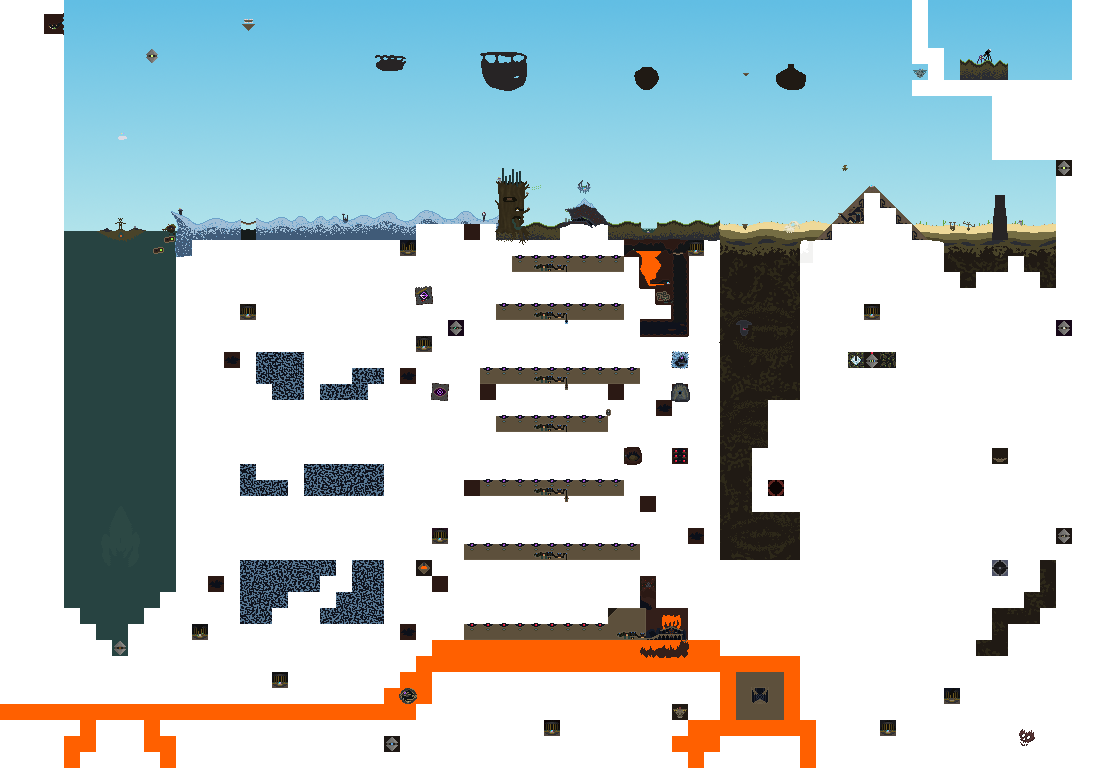
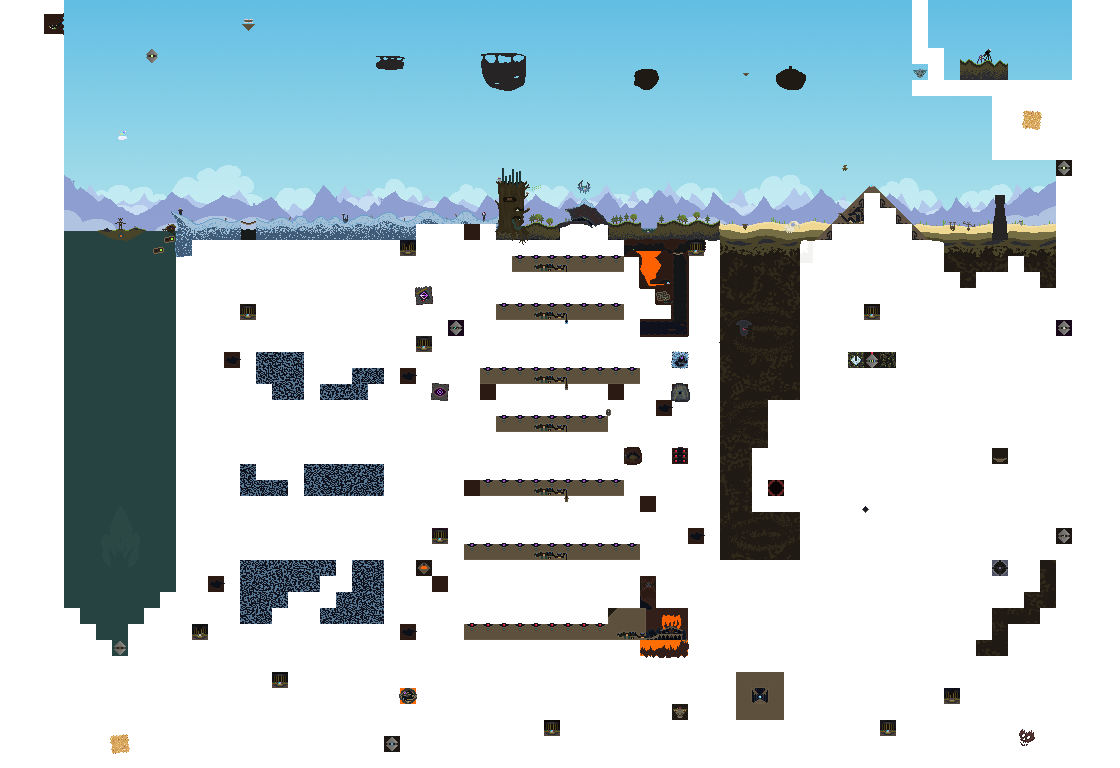
Update custom art
Thanks Crabmaster

diff --git a/js/app.js b/js/app.js
@@ -32,6 +32,10 @@ export const app = {
 
 	overlay: null, 
 	surfaceOverlay: null,
+	surfaceOverlayPW: null,
+	surfaceOverlayNGP: null,
+	surfaceOverlayNGPPW: null,
+
 	ctxo: null, 
 	// Background maps, recolored by biome
 	recolorOffscreen: null,
@@ -193,9 +197,12 @@ export const app = {
 		document.getElementById('debug-custom-art').onchange = async () => {
 			if (!document.getElementById('debug-custom-art').checked) {
 				this.surfaceOverlay = null;
+				this.surfaceOverlayPW = null;
+				this.surfaceOverlayNGP = null;
+				this.surfaceOverlayNGPPW = null;
 			}
 			else {
-				this.surfaceOverlay = await this.getSurfaceOverlay();
+				await this.getSurfaceOverlays();
 			}
 			this.draw();
 		}
@@ -721,7 +728,7 @@ export const app = {
 		console.log("Finished loading pixel scene data.");
 
 		if (document.getElementById('debug-custom-art').checked) {
-			this.surfaceOverlay = await this.getSurfaceOverlay();
+			await this.getSurfaceOverlays();
 		}
 		this.setLoading(false);
 	},
@@ -1011,16 +1018,15 @@ export const app = {
 			this.recolorOffscreenHellBuffer[i*3+2] = recolor & 0xFF;
 		}
 		ctxHell.putImageData(hellData, 0, 0);
-
-		// Disabled for now, waiting for a redraw
-		//this.getSurfaceOverlay();
 	},
 
-	async getSurfaceOverlay() {
+	async getSurfaceOverlays() {
 		// TODO: Add variants for PWs/NG+
-		const url = './data/biome_maps/surface_overlay.png';
 		// Going to use this mode when I don't need to modify the image data
-		this.surfaceOverlay = await loadPNGBitmap(url);
+		this.surfaceOverlay = await loadPNGBitmap('./data/biome_maps/surface_overlay.png');
+		//this.surfaceOverlayPW = await loadPNGBitmap('./data/biome_maps/surface_overlay_pw.png');
+		//this.surfaceOverlayNGP = await loadPNGBitmap('./data/biome_maps/surface_overlay_ngp.png');
+		//this.surfaceOverlayNGPPW = await loadPNGBitmap('./data/biome_maps/surface_overlay_ngp_pw.png');
         return this.surfaceOverlay;
 	},
 
@@ -1060,10 +1066,31 @@ export const app = {
 		}
 
 		// Render debug surface overlay 
-		if (this.surfaceOverlay) { 
-			if (this.pwVertical === 0 && this.ngPlusCount === 0) {
+		if (this.pwVertical === 0) {
+			if (this.ngPlusCount === 0) {
 				// TODO: Need the PW/NG+ versions of the overlay, for now disable
-				this.ctx.drawImage(this.surfaceOverlay, 0, 0, this.w * 512, this.h * 512);
+				if (this.pw === 0) {
+					if (this.surfaceOverlay) {
+						this.ctx.drawImage(this.surfaceOverlay, 0, 0, this.w * 512, this.h * 512);
+					}
+				}
+				else {
+					if (this.surfaceOverlayPW) {
+						this.ctx.drawImage(this.surfaceOverlayPW, 0, 0, this.w * 512, this.h * 512);
+					}
+				}
+			}
+			else {
+				if (this.pw === 0) {
+					if (this.surfaceOverlayNGP) {
+						this.ctx.drawImage(this.surfaceOverlayNGP, 0, 0, this.w * 512, this.h * 512);
+					}
+				}
+				else {
+					if (this.surfaceOverlayNGPPW) {
+						this.ctx.drawImage(this.surfaceOverlayNGPPW, 0, 0, this.w * 512, this.h * 512);
+					}
+				}
 			}
 		}
 

diff --git a/index.html b/index.html
@@ -676,7 +676,7 @@
             <label class="debug-opt" title="Exclude Taikasauva Spawns from the map. Taikasauvas are a source of wands and spells, but they can be somewhat inconsistent because they have a tendency to randomly unload."><input type="checkbox" id="exclude-taikasauva"> Exclude Natural Taikasauva Spawns</label>
             <label class="debug-opt" title="Whether to recolor wang colors to material colors. Colors are still incorrect for some materials because they use textures which have different colors than their wang/material colors."><input type="checkbox" id="recolor-materials" checked> Recolor Materials</label>
             <label class="debug-opt" title="Remove spawn pixels after pre-scanning spawns from tiles and pixel scenes. Makes the world look quite a bit more empty, or more clean, depending on your point of view. Might be buggy with attempting to deselect this setting."><input type="checkbox" id="clear-spawn-pixels"> Clear Spawn Pixels</label>
-            <label class="debug-opt" title="Show a custom overlay of the surface and pixel scenes at a lower resolution"><input type="checkbox" id="debug-custom-art"> Display Custom Art</label>
+            <label class="debug-opt" title="Show a custom overlay of the surface and pixel scenes at a lower resolution"><input type="checkbox" id="debug-custom-art" checked> Display Custom Art</label>
             <label class="debug-opt" title="Whether to enable static pixel scenes (holy mountains and such, with no items). WIP">
                 Enable Static Pixel Scenes
                 <select id="enable-static-pixel-scenes">
